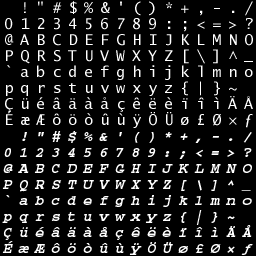
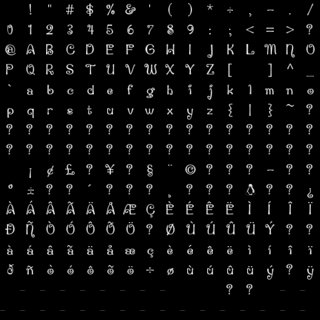
Jetzt mit anderer Font und fontcreator!

Changed region(s): [[0.0, 0.0, 1.0, 1.0], [0.9688, 0.0, 1.0, 0.0312]]

diff --git a/Illustrator.cpp b/Illustrator.cpp
@@ -1,7 +1,7 @@
 #include "Illustrator.h"
 
 Illustrator::Illustrator() :
-  fontbase(0), font(0)
+  fontbase(0), font(0), fontsize(0)
 {
   int i;
   float fx, fy;
@@ -18,8 +18,12 @@ Illustrator::Illustrator() :
 
     /* Textur erstellen */
     glTexImage2D( GL_TEXTURE_2D, 0, 3, fontImage->w, fontImage->h, 0, GL_RGB, GL_UNSIGNED_BYTE, fontImage->pixels );
- 
+    fontsize = fontImage->w/(float)16;
+
     SDL_FreeSurface(fontImage);
+  } else {
+    printf("Font nicht vorhanden!\n");
+    exit(1);
   }
 
   /* Fontliste erzeugen einladen */
@@ -35,24 +39,24 @@ Illustrator::Illustrator() :
     glNewList( fontbase + (255-i), GL_COMPILE );
       glBegin( GL_QUADS );
         /* unten links */
-        glTexCoord2f( fx - 0.0625, fy );
+        glTexCoord2f( fx - 1/fontsize, fy );
         glVertex2i( 0, 0 );
 
         /* unten rechts */
         glTexCoord2f( fx, fy );
-        glVertex2i( 16, 0 );
+        glVertex2f( fontsize, 0 );
 
         /* oben rechts */
-        glTexCoord2f( fx, fy - 0.0625f );
-        glVertex2i( 16, 16 );
+        glTexCoord2f( fx, fy - 1/fontsize );
+        glVertex2f( fontsize, fontsize );
 
         /* oben links */
-        glTexCoord2f( fx - 0.0625f, fy - 0.0625f);
-        glVertex2i( 0, 16 );
+        glTexCoord2f( fx - 1/fontsize, fy - 1/fontsize);
+        glVertex2f( 0, fontsize );
       glEnd( );
 
       /* wieder zurueck, aber nicht ganz, dadurch überlagern sich die Buchstaben und sind enger */
-      glTranslated( 10, 0, 0 );
+      glTranslatef( fontsize*0.5, 0, 0 );
     glEndList( );
   }
 }
@@ -116,9 +120,8 @@ void Illustrator::drawDisk(float x, float y, float r)
   gluDeleteQuadric(pObj);
 }
 
-void Illustrator::glPrint(float red, float green, float blue, float x, float y, const char *format, ... )
+void Illustrator::glPrint(float size, float red, float green, float blue, float x, float y, const char *format, ... )
 {
-  int italic = 0;
   va_list ap;
   char text[256];
 
@@ -134,12 +137,11 @@ void Illustrator::glPrint(float red, float green, float blue, float x, float y, 
   glPushMatrix();
   glEnable(GL_BLEND);
   glPushAttrib( GL_LIST_BIT );
-  glListBase( fontbase - 32 + (128*italic) );
+  glListBase( fontbase - 32 );
 
-  /* Position anpassen */
-  y += 18.0f;
-  x += 3.0f;
-  glScalef(1.0,-1.0,1.0);
+  /* Groesse und Position anpassen */
+  glScalef((size/fontsize),-(size/fontsize),1.0);
+  y += size+3.0f;
 
   /* richtige Schrift */
   glColor3f(red,green,blue);

diff --git a/SpaceDisplay.cpp b/SpaceDisplay.cpp
@@ -73,8 +73,10 @@ void SpaceDisplay::drawBridge(Universe &uni, BridgeView view, double indicator, 
   /**************************
    *        INFOTEXT        *
    **************************/
-  y = 0; 
-  illustrator.glPrint( TEXTR, TEXTG, TEXTB, 0.0f, TEXTSPACE*(y++), "Task: Navigate the green galaxy into the green target area.");
+  float fontsize = 18;
+  float fmargin = 3;
+  y = 0;
+  illustrator.glPrint( fontsize, TEXTR, TEXTG, TEXTB, fmargin, fontsize*(y++)+fmargin, "Task: Navigate the green galaxy into the green target area.");
   for(i = 0; i < uni.galaxies.size(); i++)
   {
     if(uni.galaxies[i].exists)
@@ -82,13 +84,13 @@ void SpaceDisplay::drawBridge(Universe &uni, BridgeView view, double indicator, 
       curse = atan2(uni.galaxies[i].vx,-uni.galaxies[i].vy); /* Vertauscht und VZ geaendert, dadurch quasi acot2 */
       curse = (curse < 0)?curse+2*M_PI:curse;
       curse = curse*(180/M_PI);
-      illustrator.glPrint( TEXTR, TEXTG, TEXTB, 0.0f, TEXTSPACE*(y++), "%i. Galaxy: Mass: %.0e kg, Curse: %i°",(i+1),uni.galaxies[0].mass,(int)round(curse));
+      illustrator.glPrint( fontsize, TEXTR, TEXTG, TEXTB, fmargin, fontsize*(y++)+fmargin, "%i. Galaxy: Mass: %.0e kg, Curse: %i°",(i+1),uni.galaxies[0].mass,(int)round(curse));
     }
   }
 
-  illustrator.glPrint( TEXTR, TEXTG, TEXTB, 0.0f, TEXTSPACE*(y++), "fps: %07.2f",uni.fps());
-  illustrator.glPrint( TEXTR, TEXTG, TEXTB, 0.0f, TEXTSPACE*(y++), "elapsed: %2.2f",uni.elapsed());
-  illustrator.glPrint( TEXTR, TEXTG, TEXTB, 0.0f, TEXTSPACE*(y++), "won: %d",uni.won());
+  illustrator.glPrint( fontsize, TEXTR, TEXTG, TEXTB, fmargin, fontsize*(y++)+fmargin, "fps: %07.2f",uni.fps());
+  illustrator.glPrint( fontsize, TEXTR, TEXTG, TEXTB, fmargin, fontsize*(y++)+fmargin, "elapsed: %2.2f",uni.elapsed());
+  illustrator.glPrint( fontsize, TEXTR, TEXTG, TEXTB, fmargin, fontsize*(y++)+fmargin, "won: %d",uni.won());
 
 
 

diff --git a/Illustrator.h b/Illustrator.h
@@ -12,6 +12,7 @@ class Illustrator
   private:
     GLuint fontbase;
     GLuint font;
+    float fontsize;
 
   public:
     Illustrator();
@@ -23,7 +24,8 @@ class Illustrator
     void drawDisk(float x, float y, float r);
 
     void buildFont();
-    void glPrint(float red, float green, float blue, float x, float y, const char *format, ... );
+    void glPrint(float size, float red, float green, float blue, float x, float y, const char *format, ... );
+    float getFontsize(){return fontsize;}
 };
 
 #endif

diff --git a/SpaceDisplay.h b/SpaceDisplay.h
@@ -19,7 +19,6 @@
 
 #define VIEWANGLE 45
 
-#define TEXTSPACE 15
 #define TEXTR 0.0f
 #define TEXTG 1.0f
 #define TEXTB 0.0f
